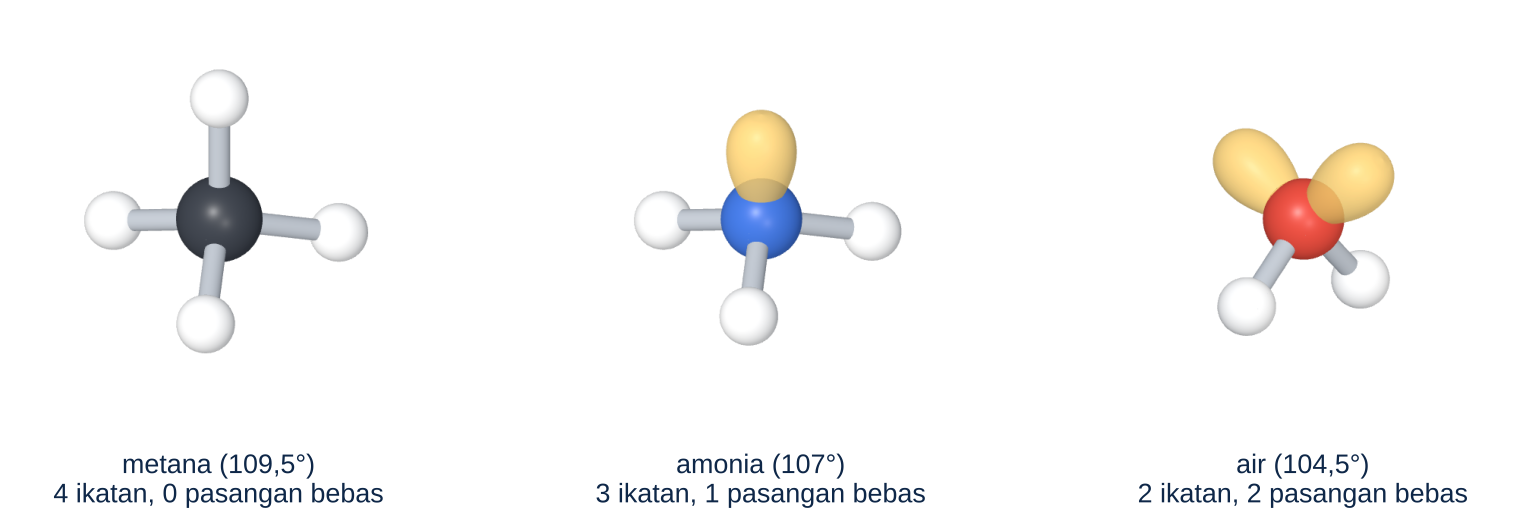
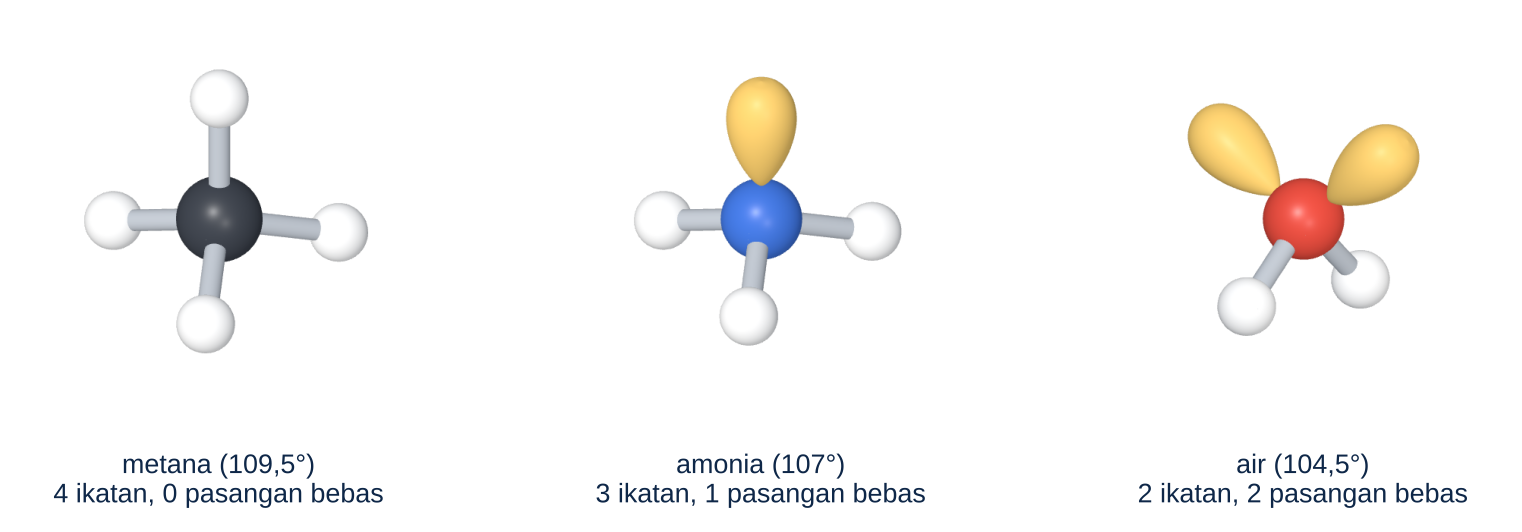
Kimia Organik 1: cuping pasangan bebas menempel di permukaan atom (VSEPR)
Claude-Session: https://claude.ai/code/session_01G22JtT1y1xdtaSNXZDohTG

Changed region(s): [[0.772, 0.1805, 0.9573, 0.4211], [0.4632, 0.1504, 0.525, 0.391]]

diff --git a/kimia-organik/alat/gambar/bab01.py b/kimia-organik/alat/gambar/bab01.py
@@ -504,8 +504,9 @@ for k in ['co2', 'h2o', 'ch3cl', 'ccl4']:
 for k, npb in [('ch4', 0), ('nh3', 1), ('h2o_v', 2)]:
     pts = [p for _, p in M[k][0]] + ([tuple(t[0] * 0.9)] if npb == 1 else []) + ([(0, 0.62, 0.45), (0, -0.62, 0.45)] if npb == 2 else [])
     sp = spek_molekul(*M[k]); sp.update({'w': 520, 'h': 520, 'zoom': 1.55, 'camdir': kamera_terbaik(pts, (10, 30))})
-    if npb == 1: sp['lobes'] = [lob(t[0], 0.95, 0.34, 0xf3c86a, a=0.85)]
-    if npb == 2: sp['lobes'] = [lob((0, sg * 0.81, 0.58), 0.95, 0.34, 0xf3c86a, a=0.85) for sg in (1, -1)]
+    r0 = 0.30  # sedikit di bawah jari-jari atom pusat agar ujung cuping menempel rapat
+    if npb == 1: sp['lobes'] = [lob(t[0], 0.95, 0.34, 0xf3c86a, o=tuple(t[0] * r0))]
+    if npb == 2: sp['lobes'] = [lob((0, sg * 0.81, 0.58), 0.95, 0.34, 0xf3c86a, o=(0, sg * 0.81 * r0, 0.58 * r0)) for sg in (1, -1)]
     jobs.append((sp, f'{TMP}/v_{k}.png'))
 META = render(jobs)
 
